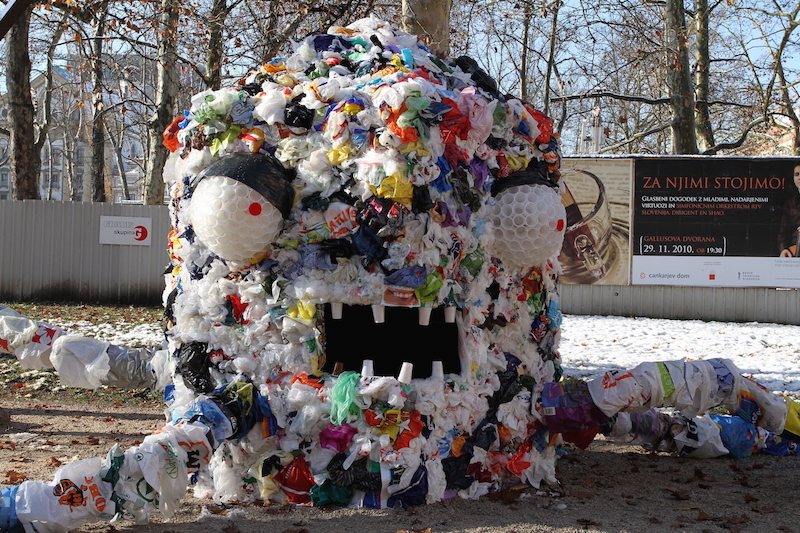
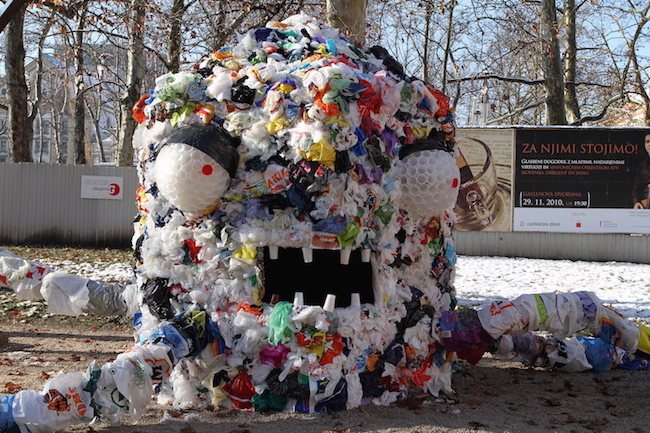
Optimization
Cleaning up extra code and broken links

diff --git a/index.html b/index.html
@@ -472,7 +472,7 @@ prevention, separate collection, recycling and composting of materials in waste.
                         <div class="modal-body">
                             <h2>Waste reduction projects</h2>
                             <hr class="star-primary">
-                            <img src="img/portfolio/" class="img-responsive img-centered" alt="">
+                            <img src="img/portfolio/plastic_monster.jpg" class="img-responsive img-centered" alt="">
                             <p>Actions speak louder than words, so we have implemented several waste prevention campaigns. They range from accelerating textile reuse and recycling, food waste prevention across the whole chain, humanitarian waste paper collection, throwaway bag use reduction, to promoting use of reusable cups and diapers.</p>
 
                             <button type="button" class="btn btn-default" data-dismiss="modal"><i class="fa fa-times"></i> Close</button>
@@ -482,117 +482,7 @@ prevention, separate collection, recycling and composting of materials in waste.
             </div>
         </div>
     </div>
-    <div class="portfolio-modal modal fade" id="portfolioModal4" tabindex="-1" role="dialog" aria-hidden="true">
-        <div class="modal-content">
-            <div class="close-modal" data-dismiss="modal">
-                <div class="lr">
-                    <div class="rl">
-                    </div>
-                </div>
-            </div>
-            <div class="container">
-                <div class="row">
-                    <div class="col-lg-8 col-lg-offset-2">
-                        <div class="modal-body">
-                            <h2>Project Title</h2>
-                            <hr class="star-primary">
-                            <img src="img/portfolio/game.png" class="img-responsive img-centered" alt="">
-                            <p>Use this area of the page to describe your project. The icon above is part of a free icon set by <a href="https://sellfy.com/p/8Q9P/jV3VZ/">Flat Icons</a>. On their website, you can download their free set with 16 icons, or you can purchase the entire set with 146 icons for only $12!</p>
-                            <ul class="list-inline item-details">
-                                <li>Client:
-                                    <strong><a href="http://startbootstrap.com">Start Bootstrap</a>
-                                    </strong>
-                                </li>
-                                <li>Date:
-                                    <strong><a href="http://startbootstrap.com">April 2014</a>
-                                    </strong>
-                                </li>
-                                <li>Service:
-                                    <strong><a href="http://startbootstrap.com">Web Development</a>
-                                    </strong>
-                                </li>
-                            </ul>
-                            <button type="button" class="btn btn-default" data-dismiss="modal"><i class="fa fa-times"></i> Close</button>
-                        </div>
-                    </div>
-                </div>
-            </div>
-        </div>
-    </div>
-    <div class="portfolio-modal modal fade" id="portfolioModal5" tabindex="-1" role="dialog" aria-hidden="true">
-        <div class="modal-content">
-            <div class="close-modal" data-dismiss="modal">
-                <div class="lr">
-                    <div class="rl">
-                    </div>
-                </div>
-            </div>
-            <div class="container">
-                <div class="row">
-                    <div class="col-lg-8 col-lg-offset-2">
-                        <div class="modal-body">
-                            <h2>Project Title</h2>
-                            <hr class="star-primary">
-                            <img src="img/portfolio/safe.png" class="img-responsive img-centered" alt="">
-                            <p>Use this area of the page to describe your project. The icon above is part of a free icon set by <a href="https://sellfy.com/p/8Q9P/jV3VZ/">Flat Icons</a>. On their website, you can download their free set with 16 icons, or you can purchase the entire set with 146 icons for only $12!</p>
-                            <ul class="list-inline item-details">
-                                <li>Client:
-                                    <strong><a href="http://startbootstrap.com">Start Bootstrap</a>
-                                    </strong>
-                                </li>
-                                <li>Date:
-                                    <strong><a href="http://startbootstrap.com">April 2014</a>
-                                    </strong>
-                                </li>
-                                <li>Service:
-                                    <strong><a href="http://startbootstrap.com">Web Development</a>
-                                    </strong>
-                                </li>
-                            </ul>
-                            <button type="button" class="btn btn-default" data-dismiss="modal"><i class="fa fa-times"></i> Close</button>
-                        </div>
-                    </div>
-                </div>
-            </div>
-        </div>
-    </div>
-    <div class="portfolio-modal modal fade" id="portfolioModal6" tabindex="-1" role="dialog" aria-hidden="true">
-        <div class="modal-content">
-            <div class="close-modal" data-dismiss="modal">
-                <div class="lr">
-                    <div class="rl">
-                    </div>
-                </div>
-            </div>
-            <div class="container">
-                <div class="row">
-                    <div class="col-lg-8 col-lg-offset-2">
-                        <div class="modal-body">
-                            <h2>Project Title</h2>
-                            <hr class="star-primary">
-                            <img src="img/portfolio/submarine.png" class="img-responsive img-centered" alt="">
-                            <p>Use this area of the page to describe your project. The icon above is part of a free icon set by <a href="https://sellfy.com/p/8Q9P/jV3VZ/">Flat Icons</a>. On their website, you can download their free set with 16 icons, or you can purchase the entire set with 146 icons for only $12!</p>
-                            <ul class="list-inline item-details">
-                                <li>Client:
-                                    <strong><a href="http://startbootstrap.com">Start Bootstrap</a>
-                                    </strong>
-                                </li>
-                                <li>Date:
-                                    <strong><a href="http://startbootstrap.com">April 2014</a>
-                                    </strong>
-                                </li>
-                                <li>Service:
-                                    <strong><a href="http://startbootstrap.com">Web Development</a>
-                                    </strong>
-                                </li>
-                            </ul>
-                            <button type="button" class="btn btn-default" data-dismiss="modal"><i class="fa fa-times"></i> Close</button>
-                        </div>
-                    </div>
-                </div>
-            </div>
-        </div>
-    </div>
+
 
     <!-- jQuery -->
     <script src="js/jquery.js"></script>
